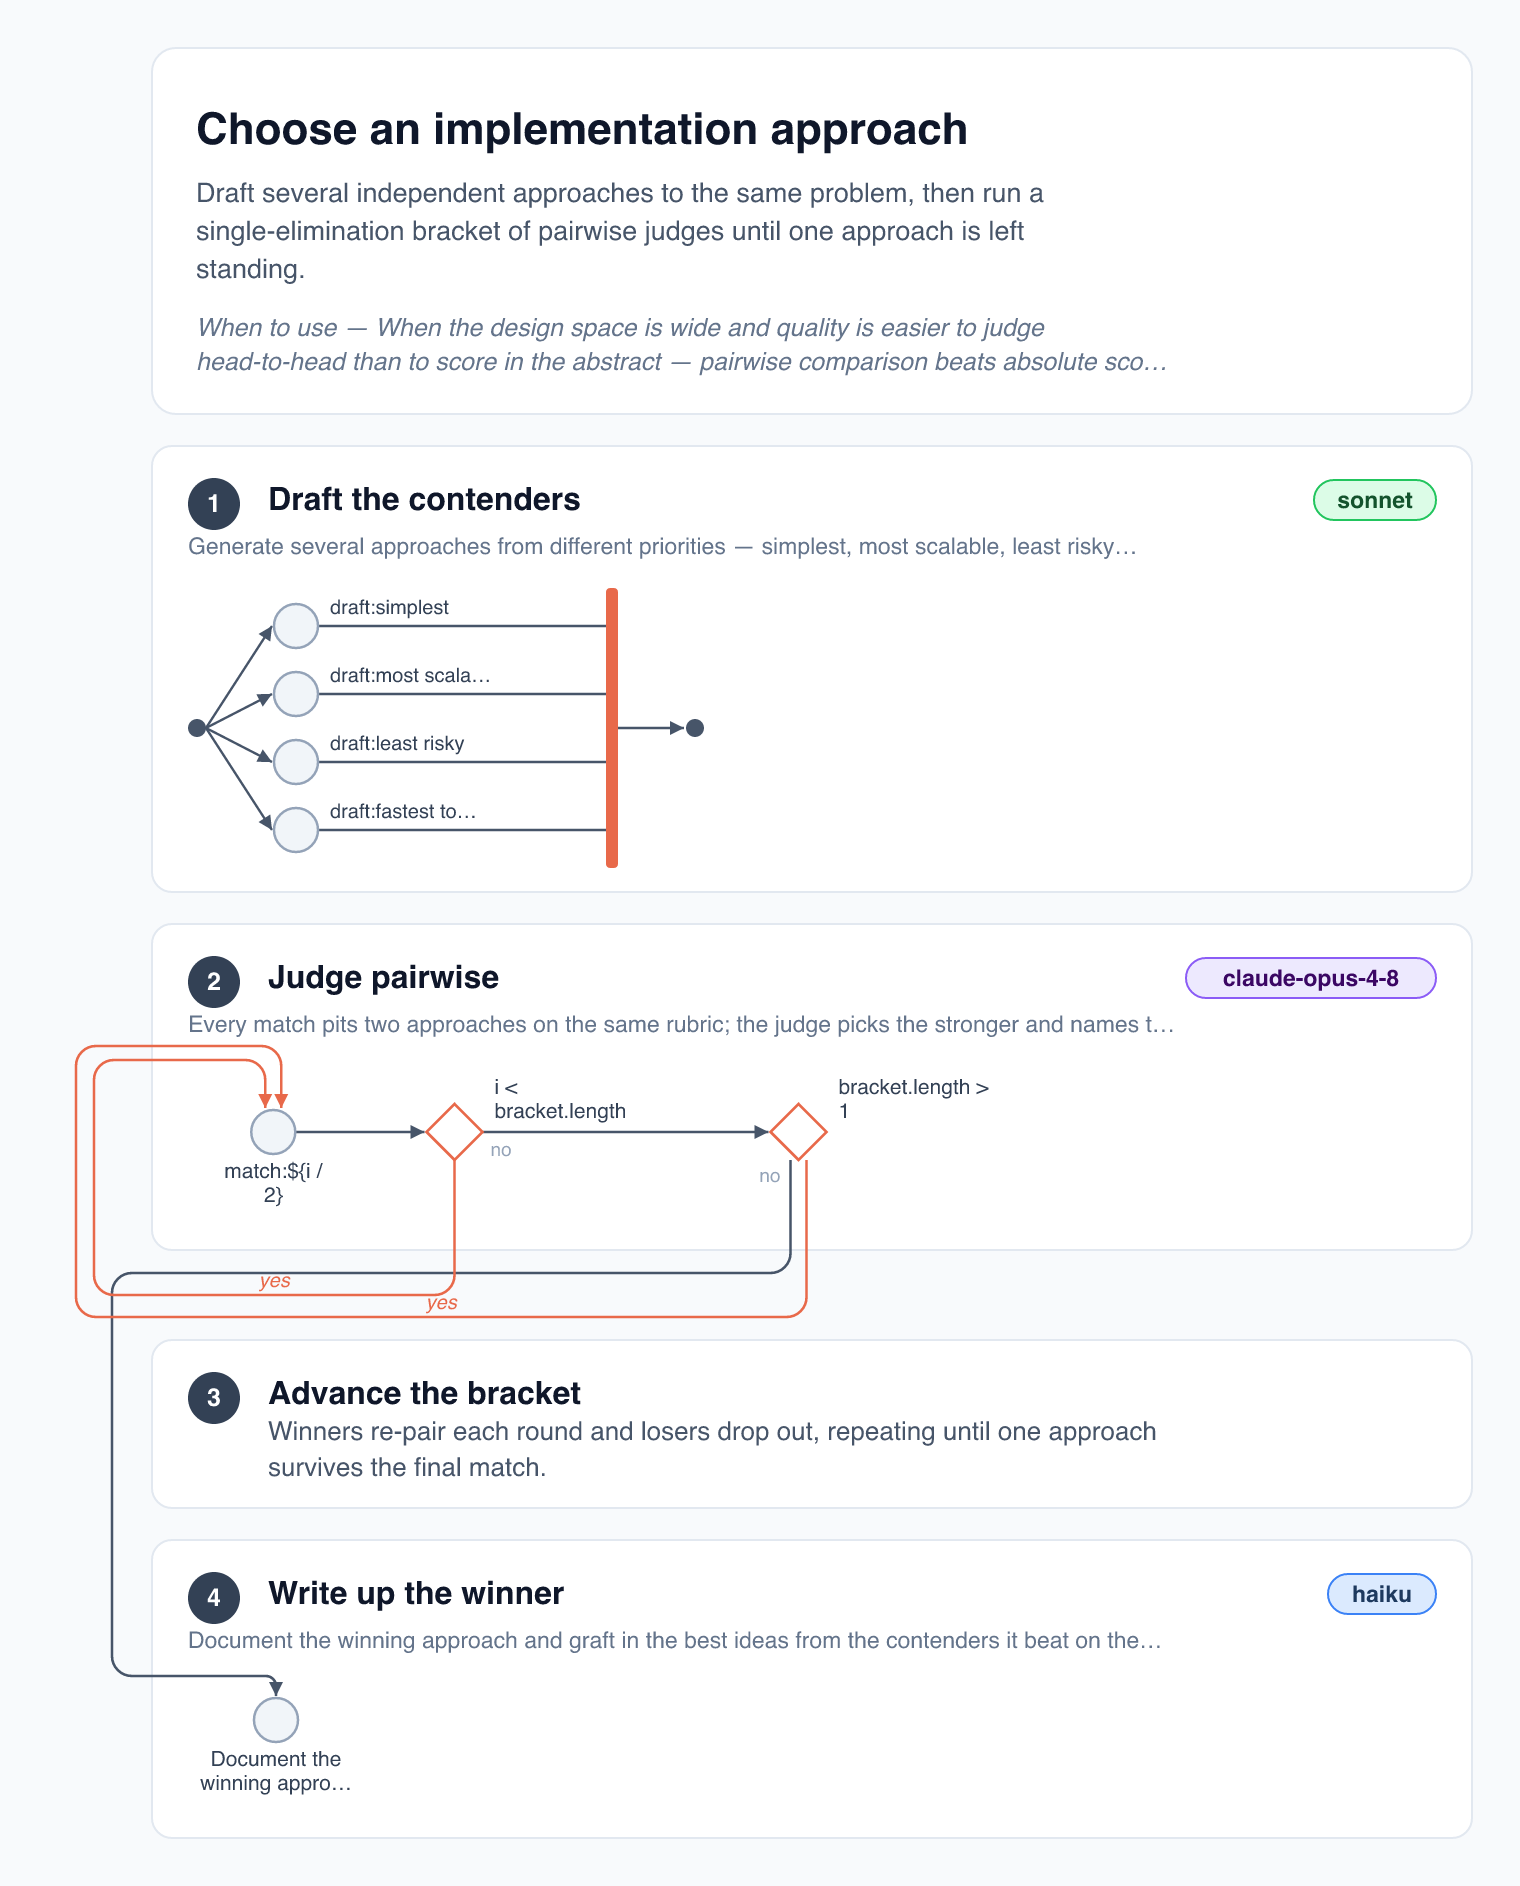
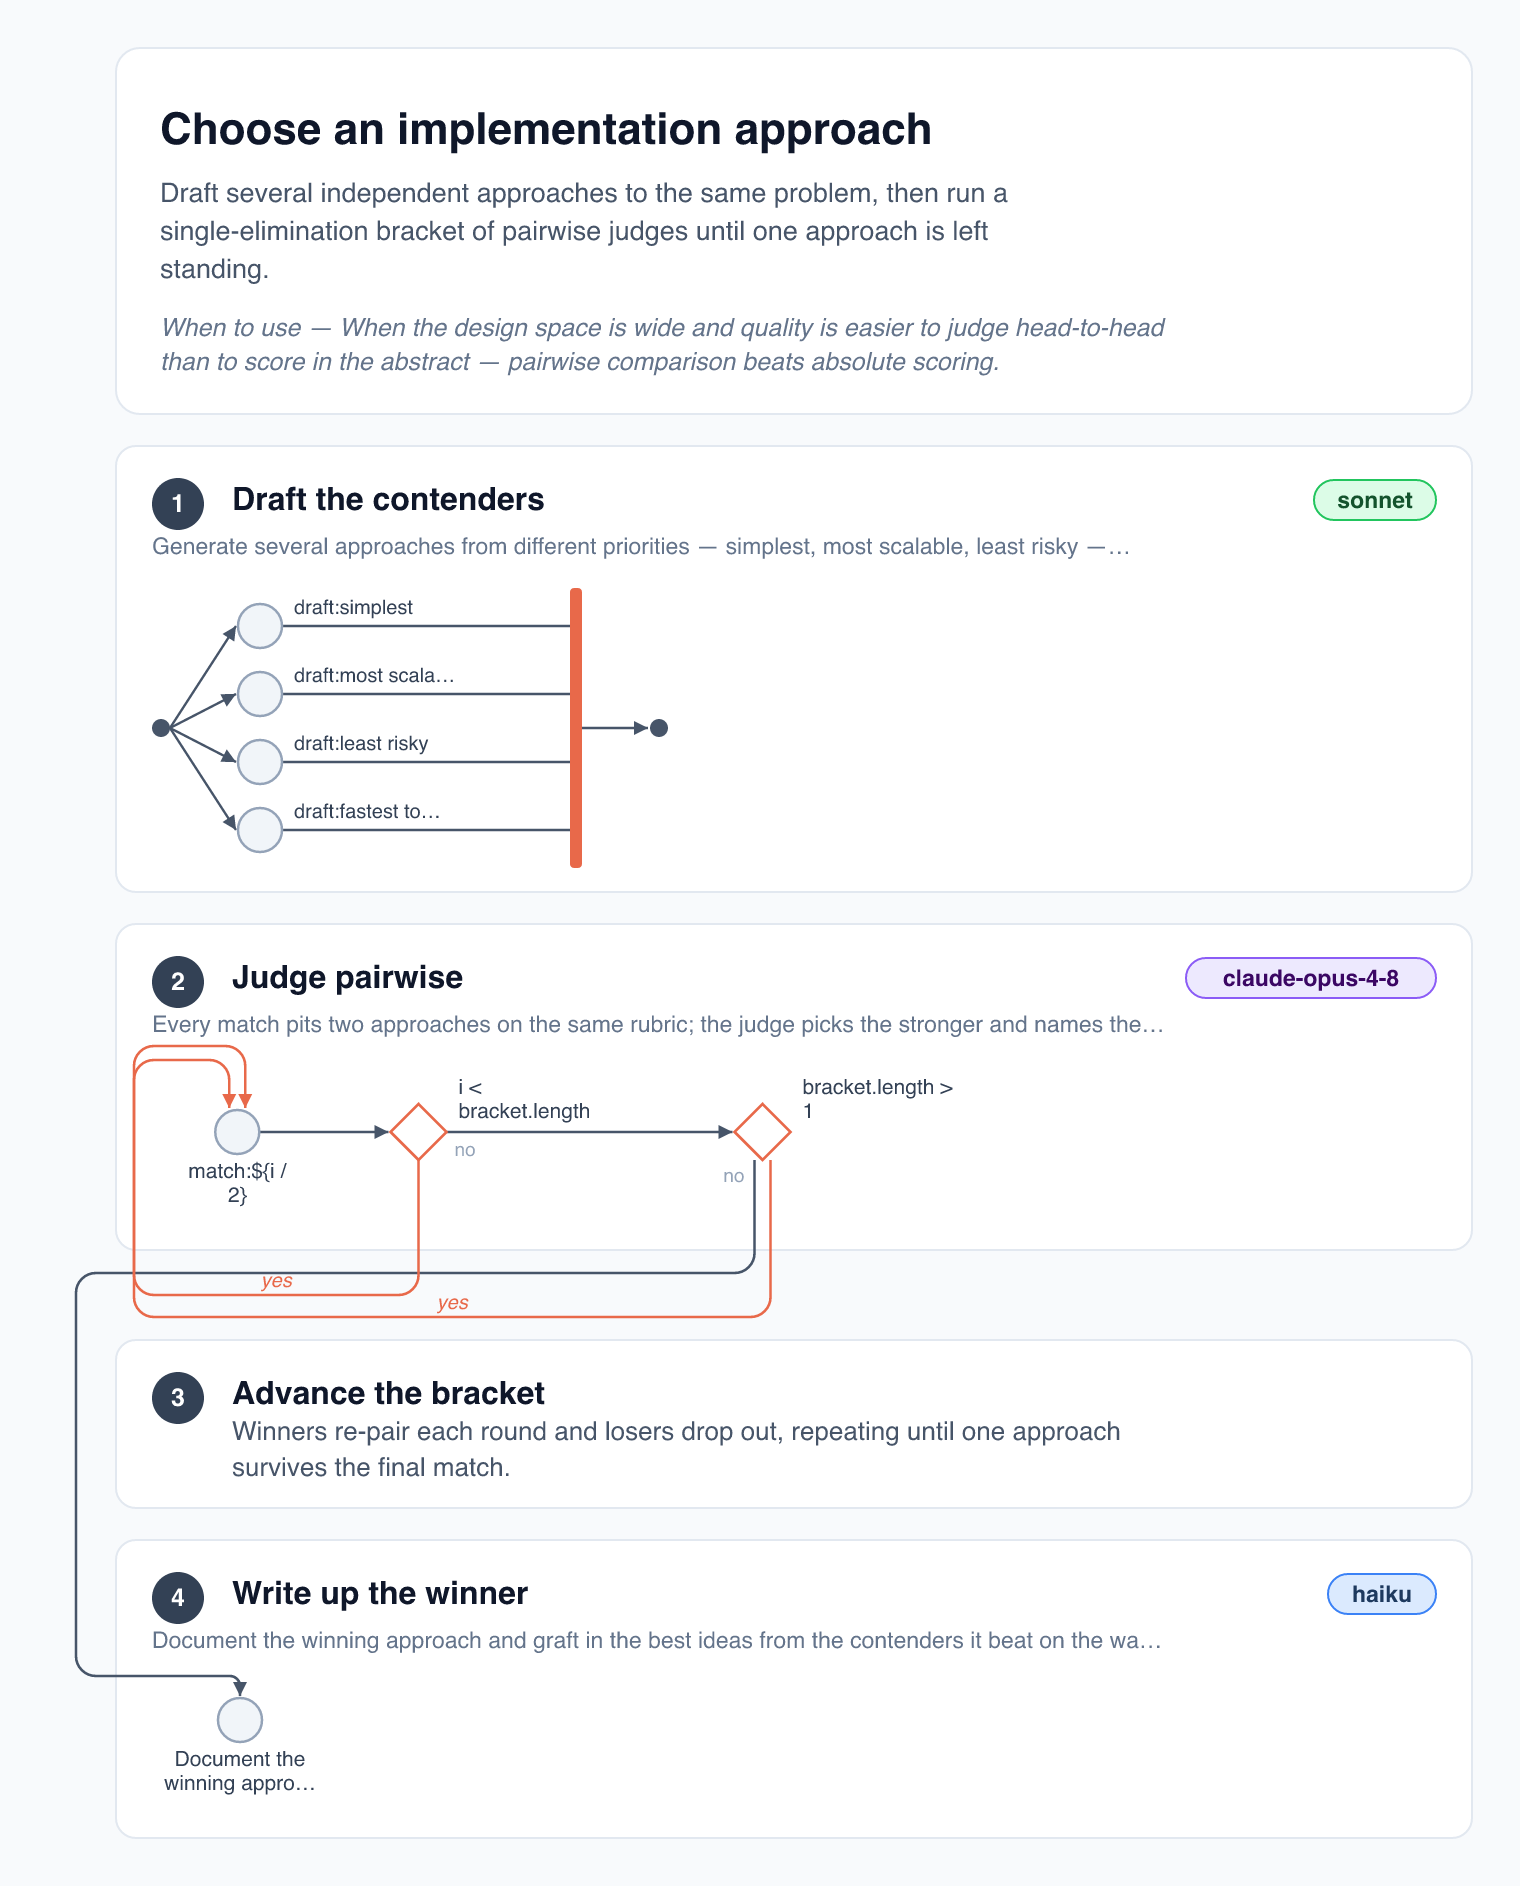
layout: route same-band loops through a local in-card channel
A loop whose back arc stays within one band (choose-approach's two
tournament decisions looping to "match") used to detour all the way out
to the global left-of-cards gutter and back — a page-spanning excursion
for a ~100px return trip — and it forced every card to shift right to
reserve that gutter. A same-band loop now climbs a local channel inside
its own band's left pad and arches over the target from there, reusing
the existing top-approach/headroom machinery (so it still clears the
target's below-label by arriving at the top). Cross-band loops
(hunt-bugs) and band-skipping forwards keep the global gutter.

Same-band loops no longer count toward the global gutter width, so a
workflow whose only loops are same-band keeps full-width v1-margin
cards. Only choose-approach re-renders; the other seven are
byte-identical, v1 snapshot untouched. +1 layout test pinning the local
channel (no gutter reserved, in-card x left of the leftmost glyph, top
arrival).

diff --git a/ts/layout-topology.ts b/ts/layout-topology.ts
@@ -112,6 +112,8 @@ const ECHO_OFFSET = 3;
 const ARRIVAL_X_STEP = 8;
 /** Stacked top-approach runs inside a band's headroom are this far apart. */
 const APPROACH_Y_STEP = 7;
+/** Same-band loop arcs climb a channel this far inside the card's left pad. */
+const LOCAL_GUTTER_X = 9;
 
 /**
  * Rough text width estimate (the inverse of `fitChars`): deliberately
@@ -823,8 +825,10 @@ interface RouteIntent {
   untaken?: boolean;
   /** Lane index in the gap below the source band. */
   gapLane: number;
-  /** Gutter lane (loops and band-skipping forwards only). */
+  /** Gutter lane (cross-band loops and band-skipping forwards only). */
   gutterLane?: number;
+  /** A same-band loop: climbs its own band's local left-pad channel, not the gutter. */
+  local?: boolean;
   /** Top-approach slot inside the target band's headroom (gutter routes). */
   approach?: number;
   /** Arrival slot at the target node (fans tips apart when shared). */
@@ -845,9 +849,12 @@ export function layoutTopology(
   // The gutter exists iff something must travel alongside the cards: every
   // loop, plus forward edges that skip at least one band. Each gets its own
   // vertical lane.
+  // Only cross-band loops and band-skipping forwards travel the GLOBAL gutter
+  // (left of the cards). A same-band loop stays inside its own band's left pad
+  // (a local channel), so it neither widens the gutter nor shifts the cards.
   const gutterRoutes =
     clean.cross.filter((e) => bandOf(clean, e.to) - bandOf(clean, e.from) >= 2).length +
-    clean.loops.length;
+    clean.loops.filter((l) => bandOf(clean, l.to) !== bandOf(clean, l.from)).length;
   // Clamped so cards keep a usable width no matter how many routes pile up;
   // past the clamp, lanes share the outermost x (degenerate, far beyond any
   // real workflow body).
@@ -887,13 +894,17 @@ export function layoutTopology(
     const to = clean.byId.get(q.to)!;
     const gapLane = gapLanes.get(from.band) ?? 0;
     gapLanes.set(from.band, gapLane + 1);
-    const viaGutter = q.kind === "loop" || to.band - from.band >= 2;
+    // A same-band loop climbs its band's local left-pad channel; every other
+    // loop and any band-skipping forward takes the global gutter. Both arrive
+    // at the target's top, so both claim a headroom approach slot.
+    const sameBandLoop = q.kind === "loop" && to.band === from.band;
+    const viaGutter = (q.kind === "loop" && !sameBandLoop) || to.band - from.band >= 2;
     let gutterLane: number | undefined;
     let approach: number | undefined;
-    if (viaGutter) {
-      gutterLane = nextGutterLane++;
+    if (viaGutter || sameBandLoop) {
       approach = approaches.get(to.band) ?? 0;
       approaches.set(to.band, approach + 1);
+      if (viaGutter) gutterLane = nextGutterLane++;
     }
     const arrival = arrivals.get(q.to) ?? 0;
     arrivals.set(q.to, arrival + 1);
@@ -907,6 +918,7 @@ export function layoutTopology(
       ...(q.untaken ? { untaken: true } : {}),
       gapLane,
       ...(gutterLane !== undefined ? { gutterLane } : {}),
+      ...(sameBandLoop ? { local: true } : {}),
       ...(approach !== undefined ? { approach } : {}),
       arrival,
       arrivalCount: 0, // filled below once totals are known
@@ -1004,7 +1016,7 @@ export function layoutTopology(
         : 0);
     const ty = dst.band.y + dst.node.cy - dst.node.h / 2 - 1;
     let pts: ReadonlyArray<readonly [number, number]>;
-    if (intent.gutterLane === undefined) {
+    if (intent.gutterLane === undefined && !intent.local) {
       pts = [
         [sx, sy],
         [sx, laneY],
@@ -1012,11 +1024,13 @@ export function layoutTopology(
         [tx, ty],
       ];
     } else {
+      // Global gutter sits left of the cards; a same-band loop's local channel
+      // sits just inside its band's left pad (clear of the leftmost column).
+      // Both then climb to a top-approach run in the target band's headroom.
       // Lane x floored on-page; past the gutter-width clamp, lanes coincide.
-      const gx = Math.max(
-        8,
-        cardX - GUTTER_LANE_INSET - intent.gutterLane * GUTTER_LANE_STEP,
-      );
+      const gx = intent.local
+        ? cardX + LOCAL_GUTTER_X
+        : Math.max(8, cardX - GUTTER_LANE_INSET - (intent.gutterLane ?? 0) * GUTTER_LANE_STEP);
       const apprY =
         dst.band.y +
         dst.band.graphTop +

diff --git a/ts/__tests__/layout-topology.test.ts b/ts/__tests__/layout-topology.test.ts
@@ -257,6 +257,33 @@ describe("gutter & gaps", () => {
     expect(two.cardX).toBe(MARGIN + GUTTER_W_BASE + GUTTER_LANE_STEP);
   });
 
+  it("routes a same-band loop through a local in-card channel, not the gutter", () => {
+    const scene = layoutTopology(
+      mkMeta("A"),
+      ir(
+        [node("n0", 0, "agent", "head"), node("n1", 0, "decision", "again?")],
+        [edge("n0", "n1")],
+        [loop("n1", "n0", "yes")],
+      ),
+      ["A"],
+    );
+    // A same-band loop earns NO global gutter — the cards keep the v1 margin.
+    expect(scene.gutterLanes).toBe(0);
+    expect(scene.cardX).toBe(MARGIN);
+    const r = scene.routes.find((rt) => rt.kind === "loop")!;
+    expect(r.pts).toHaveLength(6); // drop → local channel → climb → top-approach → target top
+    const gx = r.pts[2][0];
+    expect(gx).toBeGreaterThan(scene.cardX); // INSIDE the card, not left of it
+    expect(gx).toBeLessThan(graphBand(scene, 0).nodes[0].cx); // but left of the leftmost glyph
+    // Arrives at the target's TOP (clear of its below-label), arrowhead down.
+    // (node.cx is page-coord; node.cy is band-local, so add the band's y.)
+    const band0 = graphBand(scene, 0);
+    const [tx, ty] = r.pts[5];
+    const target = band0.nodes.find((n) => n.id === "n0")!;
+    expect(tx).toBeCloseTo(target.cx, 0);
+    expect(ty).toBeLessThan(band0.y + target.cy);
+  });
+
   it("counts a band-skipping forward as a gutter route", () => {
     const scene = layoutTopology(
       mkMeta("A", "B", "C"),